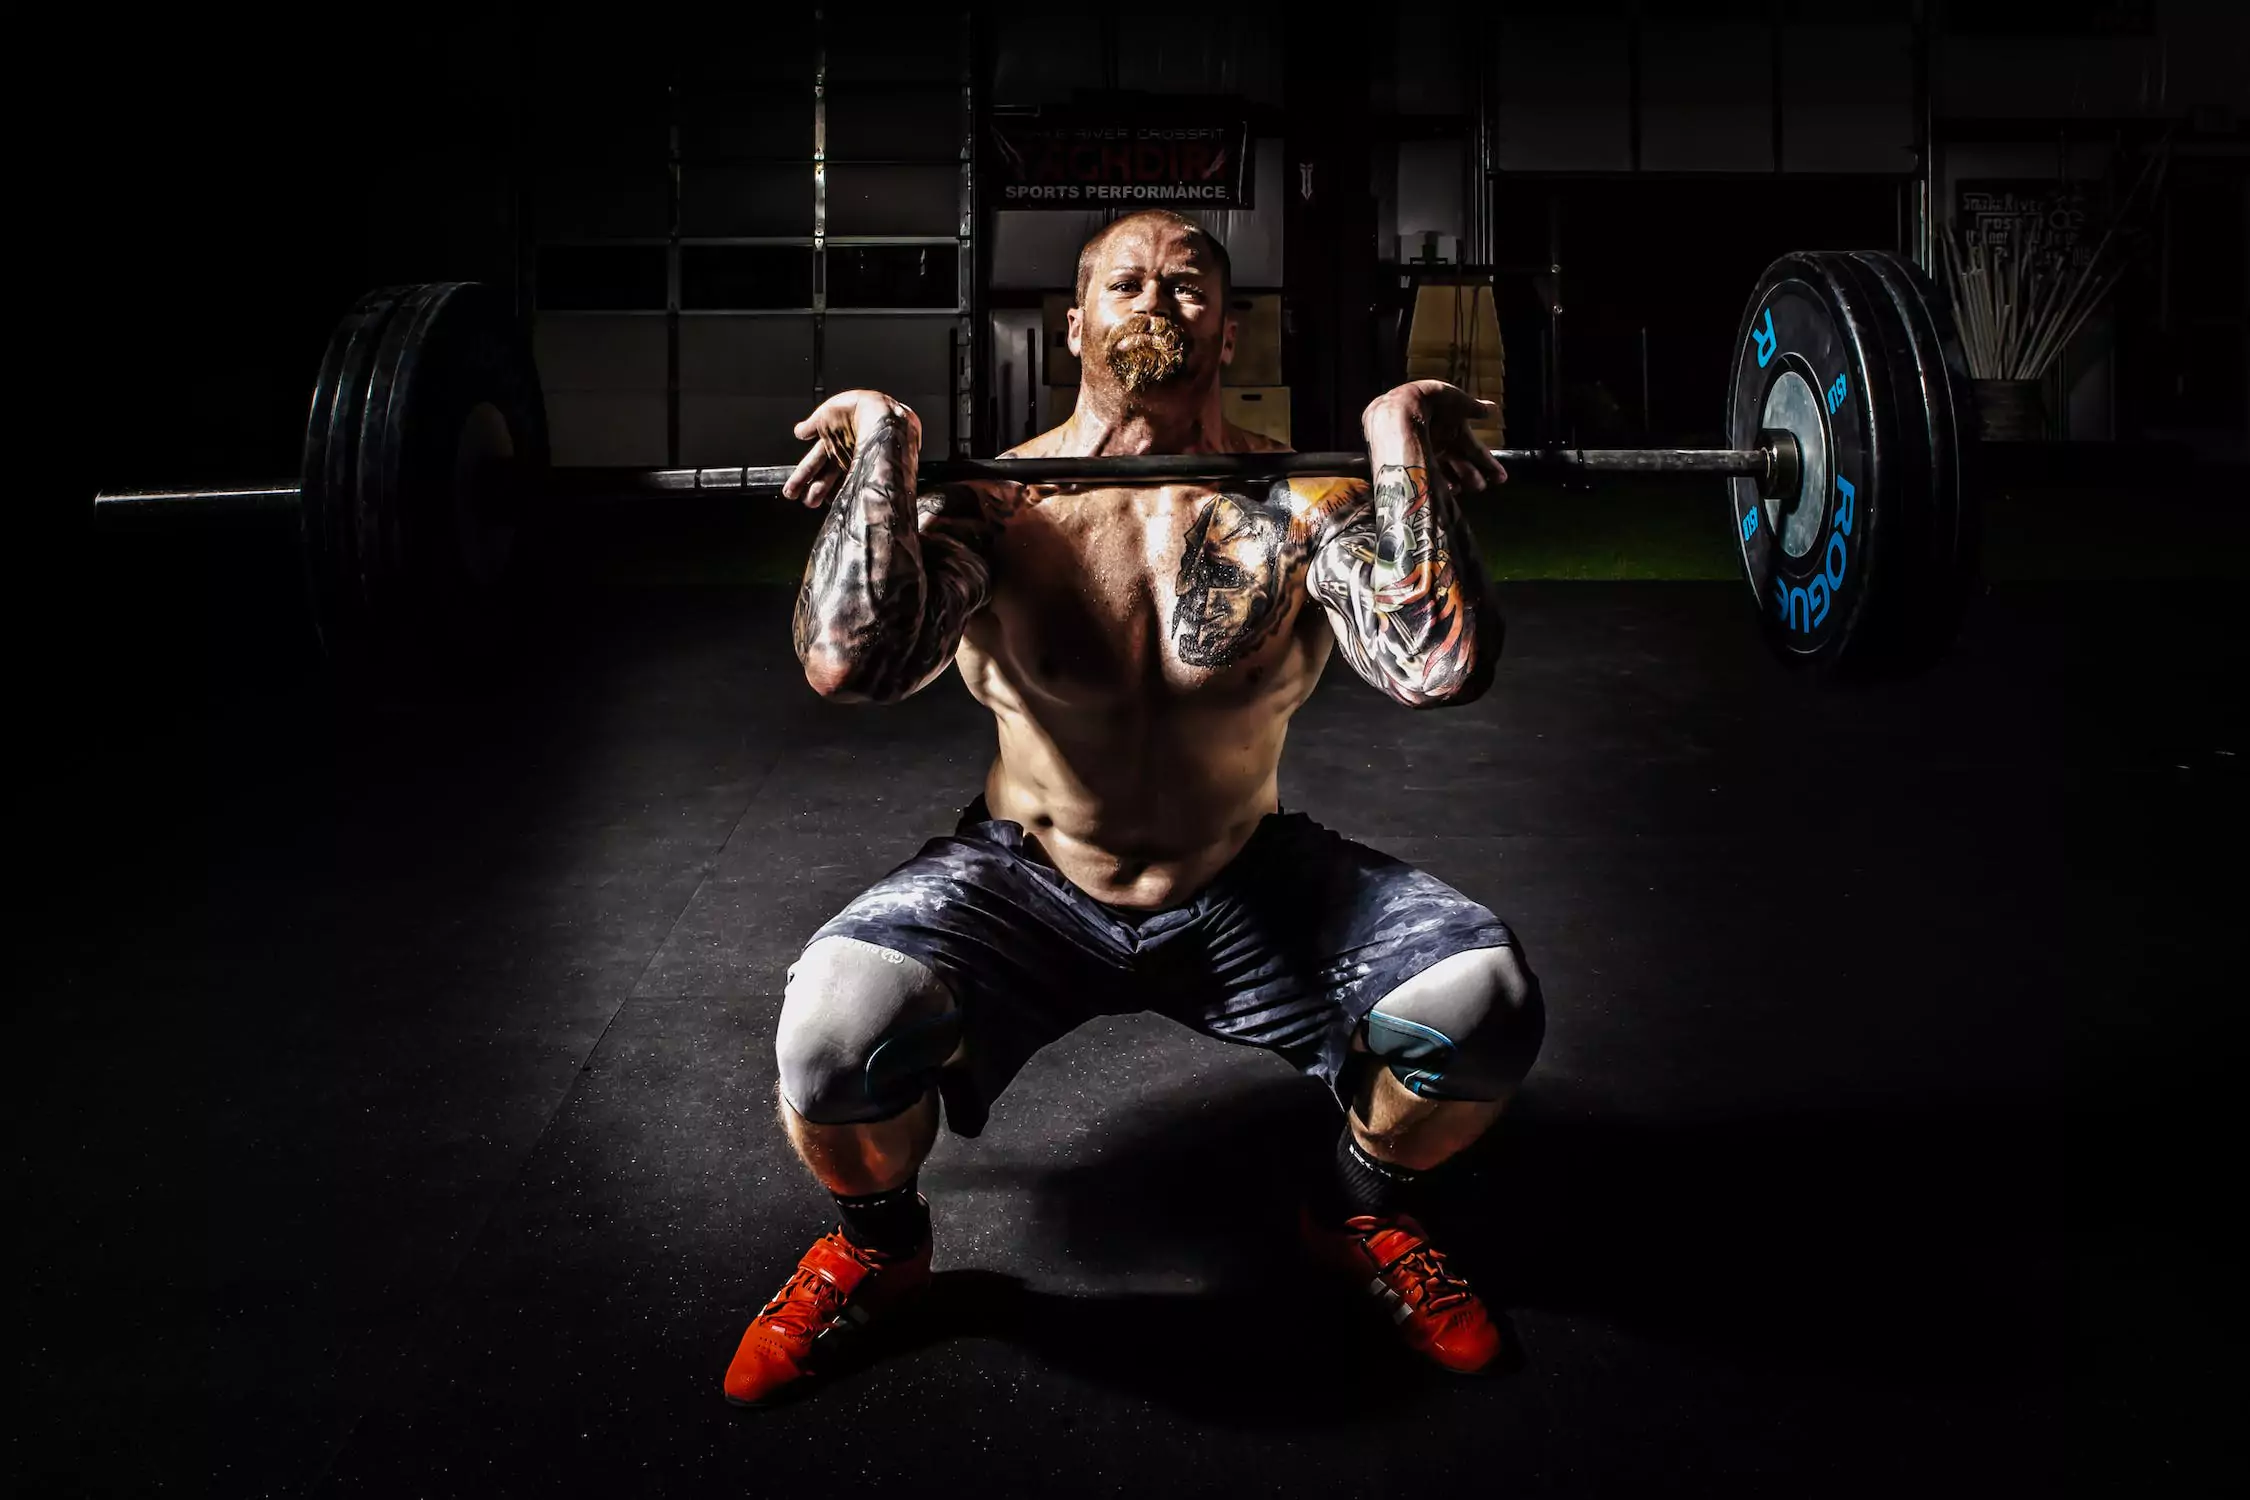
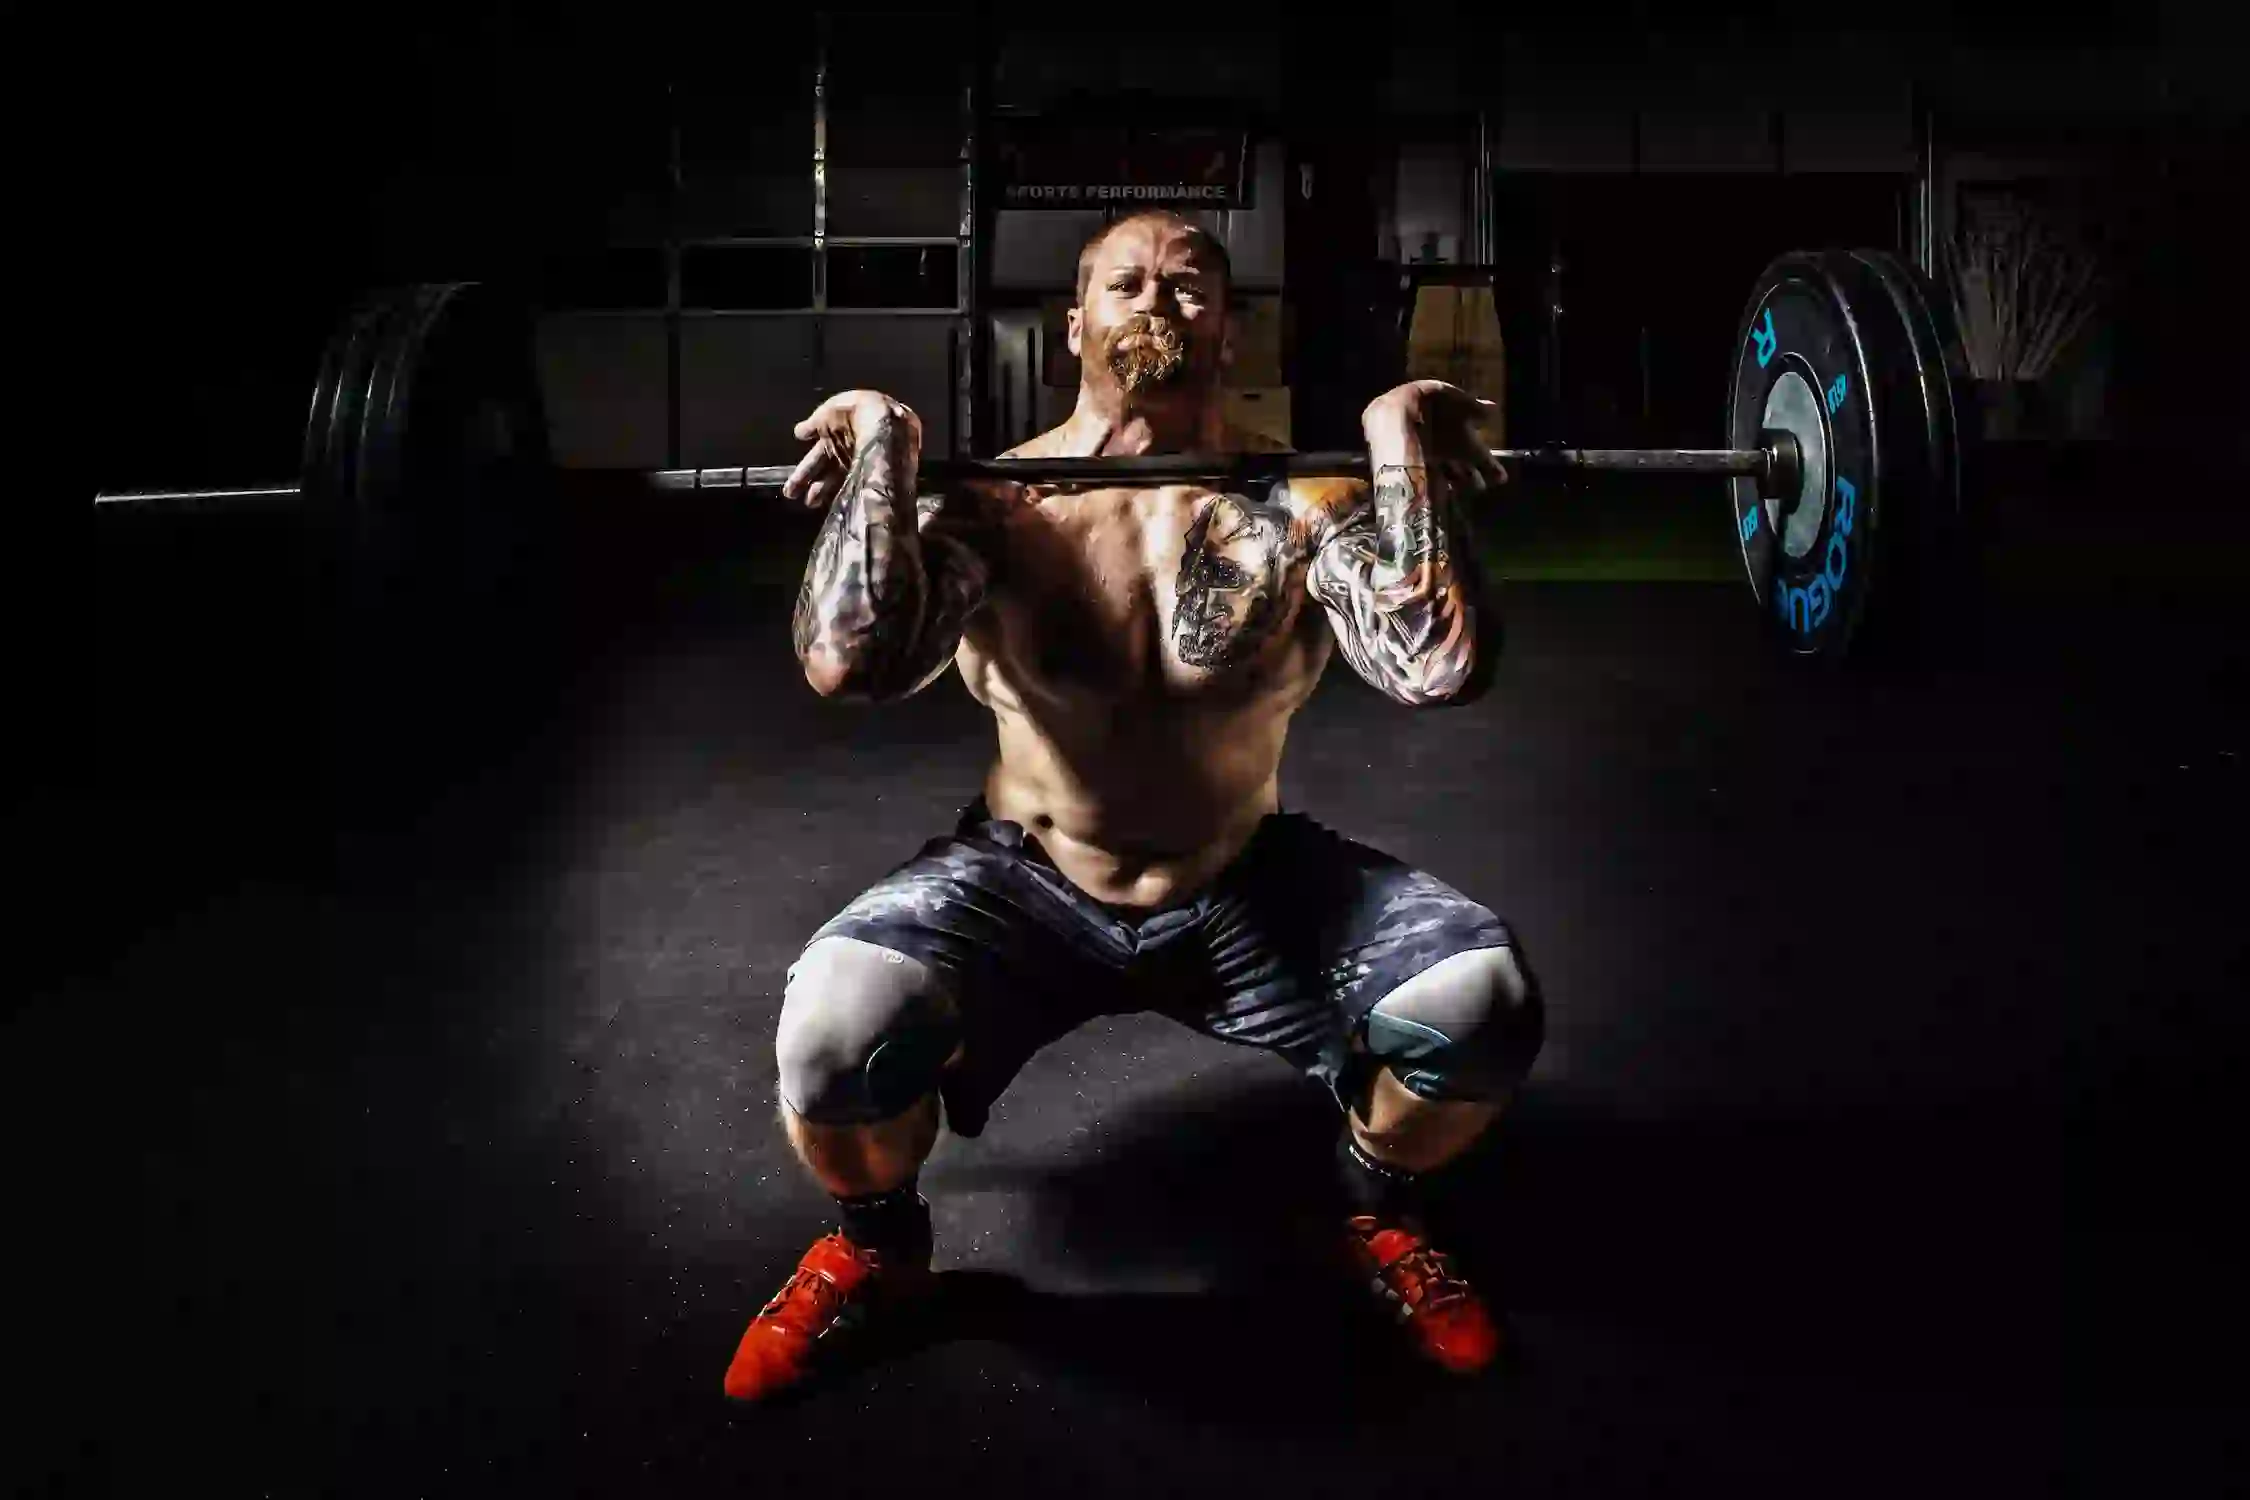
refactor: images optimised

diff --git a/src/pages/index.js b/src/pages/index.js
@@ -100,7 +100,7 @@ export default function Home() {
                   <Image
                     className="object-fit   -z-10 bottom-0 "
                     alt="Trainer Backdrop"
-                    src="/images/spray.png"
+                    src="/images/spray.webp"
                     fill
                     loading="lazy"
                   />
@@ -147,7 +147,7 @@ export default function Home() {
                     aria-label="Facebook Logo"
                   >
                     <Image
-                      src="/images/facebook-logo.png"
+                      src="/images/facebook-logo.webp"
                       width={60}
                       height={60}
                       alt="Facebook logo"
@@ -157,7 +157,7 @@ export default function Home() {
                     aria-label="Instagram Logo"
                   >
                     <Image
-                      src="/images/instagram-logo.png"
+                      src="/images/instagram-logo.webp"
                       width={60}
                       height={60}
                       alt="Instagram logo"
@@ -284,7 +284,7 @@ export default function Home() {
                 <Image
                   className="object-fit relative "
                   alt="Trainer Backdrop"
-                  src="/images/spray.png"
+                  src="/images/spray.webp"
                   fill
                   loading="lazy"
                 />
@@ -302,17 +302,17 @@ export default function Home() {
             <div className="flex flex-wrap justify-center gap-24 ">
               <Trainer
                 name="Neel Vaidya"
-                img="/images/trainers/trainer-2.png"
+                img="/images/trainers/trainer-2.webp"
                 trainerType={"Crossfit"}
               />
               <Trainer
                 name="Vilash Shinde"
-                img="/images/trainers/trainer-3.png"
+                img="/images/trainers/trainer-3.webp"
                 trainerType={"Bodybuilding"}
               />
               <Trainer
                 name="Abdul Khan"
-                img="/images/trainers/trainer-2.png"
+                img="/images/trainers/trainer-2.webp"
                 trainerType={"Lifestyle"}
               />
             </div>
@@ -392,7 +392,7 @@ export default function Home() {
                 title={"Newcomer"}
                 price="700"
                 features={""}
-                thumbnail="/images/pricing/pricing-2.jpg"
+                thumbnail="/images/pricing/pricing-2.webp"
                 tier={1}
               />
               <PriceCard

diff --git a/src/components/CallOption.js b/src/components/CallOption.js
@@ -14,7 +14,7 @@ export const CallOption = () => {
       <div className='fixed bottom-32 right-10 z-50'>
         <a href='https://api.whatsapp.com/send/?phone=917208426300&text&type=phone_number&app_absent=0' target="_blank" aria-label="Whatsapp chat linked">
           {/* <i class="fa-brands fa-whatsapp fa-fade text-[35px] bg-green-500 rounded-full p-4"></i> */}
-          <Image src='/images/whatsapp.png' className='animate-pulse z-20' alt='Call Us' width={60} height={60} />
+          <Image src='/images/whatsapp.webp' className='animate-pulse z-20' alt='Call Us' width={60} height={60} />
         </a>
       </div>
     </div>

diff --git a/src/pages/shop.js b/src/pages/shop.js
@@ -38,7 +38,7 @@ export default function Shop() {
         <div className="h-[400px] w-full bg-black relative flex justify-center items-end">
           <Image
             alt="Initial Image"
-            src="https://cdn.shopify.com/s/files/1/1775/6429/files/465_new_desk_8a59c064-4cd8-4ed7-b231-4dcb28792031_1600x.png?v=1685729660"
+            src="https://cdn.shopify.com/s/files/1/1775/6429/files/465_new_desk_8a59c064-4cd8-4ed7-b231-4dcb28792031_1600x.webp?v=1685729660"
             className="object-cover"
             fill
             loading="lazy"

diff --git a/src/components/PageFooter.js b/src/components/PageFooter.js
@@ -9,7 +9,7 @@ export function Footer({}) {
           <div className="mb-6 md:mb-0">
             <Link href="/" className="flex items-center mb-10">
               <Image
-                src="/images/logo.png"
+                src="/images/logo.webp"
                 className="mr-3"
                 alt="Arms8 Gym Logo"
                 loading="lazy"

diff --git a/src/pages/pricing.js b/src/pages/pricing.js
@@ -42,7 +42,7 @@ export default function Pricing() {
                 title={"Newcomer"}
                 price="700"
                 features={""}
-                thumbnail="/images/pricing/pricing-2.jpg"
+                thumbnail="/images/pricing/pricing-2.webp"
               />
               <PriceCard
                 title={"Experienced"}

diff --git a/src/components/Trainers.js b/src/components/Trainers.js
@@ -29,7 +29,7 @@ export function Trainer({ name, img, trainerType }) {
           <Image
             className="object-fit shadow-yellow-500 z-10 bottom-0 absolute"
             alt="Trainer Backdrop"
-            src="/images/spray.png"
+            src="/images/spray.webp"
             fill
             loading="lazy"
           />

diff --git a/src/components/Navbar.js b/src/components/Navbar.js
@@ -51,7 +51,7 @@ export function Navbar({ solid }) {
         >
           <Image
             className="object-contain"
-            src="/images/logo.png"
+            src="/images/logo.webp"
             alt="Arms8 Gym Logo"
             height={75}
             width={75}
